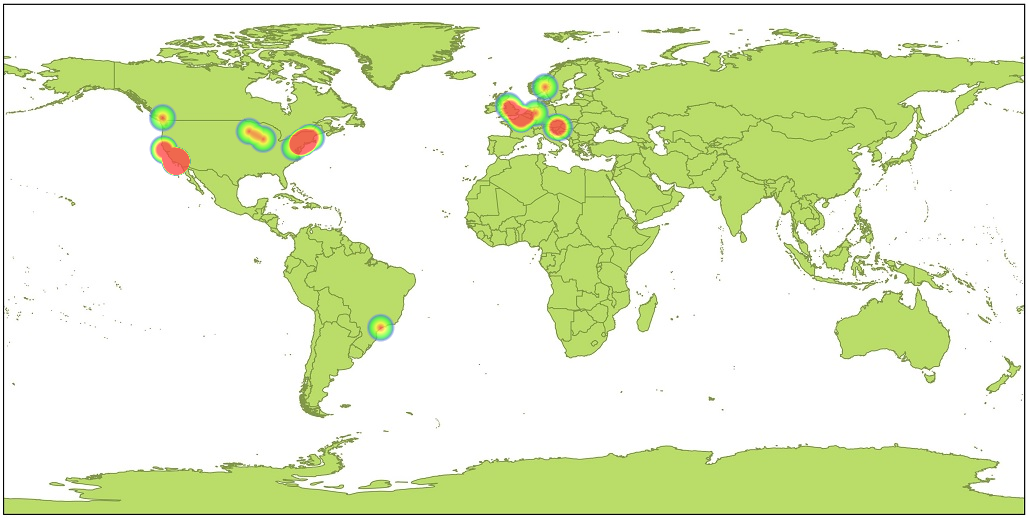
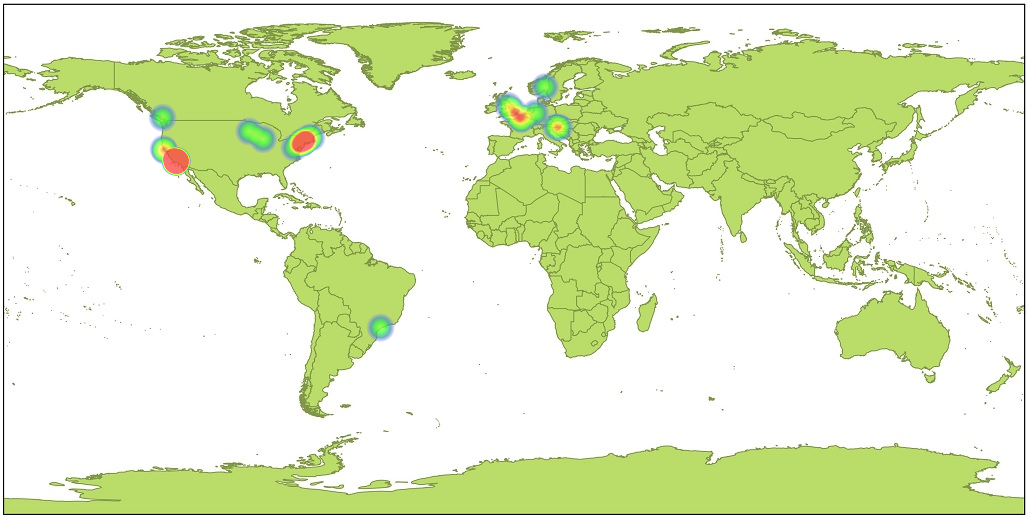
New heatmap

diff --git a/parse.py b/parse.py
@@ -19,6 +19,7 @@ MAP_IMAGE = "worldmap.jpg"
 DRAW_YEARLY_DISTRIBUTION_PLOT = True
 DRAW_HEATMAP = True
 
+HEAT_FACTOR = 0.5
 HEAT_DISTANCE_THRESHOLD = 5
 HEATMAP_ALPHA = 180
 ALPHA_CUTOFF = 0.15
@@ -263,7 +264,8 @@ def getHeat(x, y, albumData):
 def distanceToHeat(distance):
     if distance > HEAT_DISTANCE_THRESHOLD:
         return 0
-    return (HEAT_DISTANCE_THRESHOLD - distance) / HEAT_DISTANCE_THRESHOLD
+    return (HEAT_DISTANCE_THRESHOLD - distance) / HEAT_DISTANCE_THRESHOLD * \
+            HEAT_FACTOR
 
 
 ###
